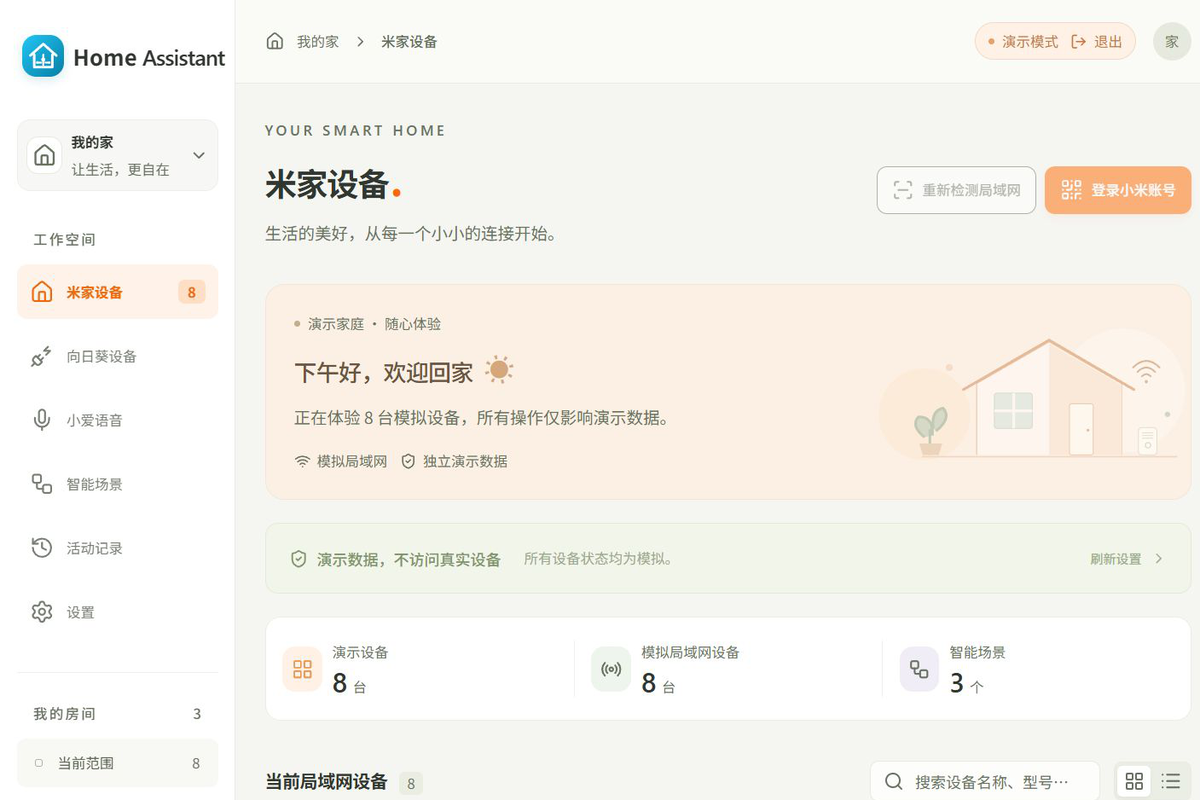
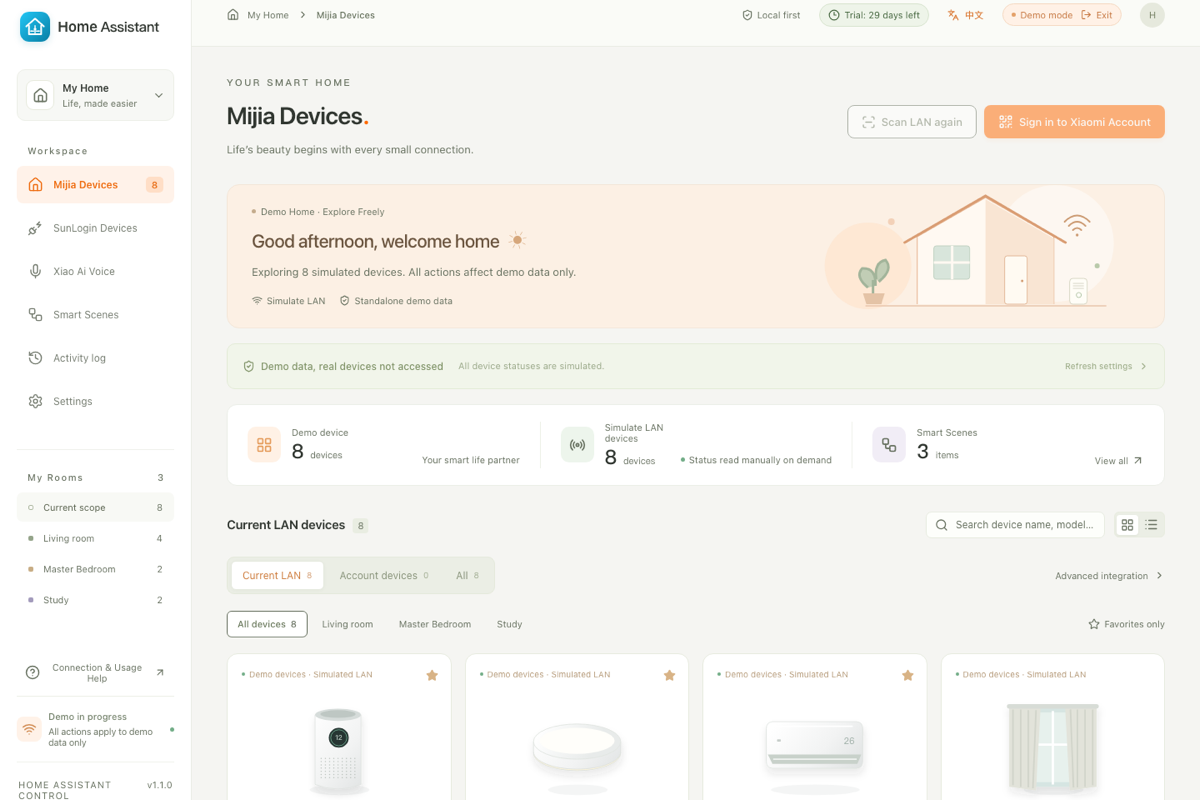
Publish Home Assistant Control 1.1.0 trial release notes

diff --git a/README.md b/README.md
@@ -11,32 +11,33 @@
 [![Release](https://img.shields.io/badge/release-latest-blue)](https://github.com/yuan-xin-9997/HomeAssistantControl/releases/latest)
 [![Platform](https://img.shields.io/badge/platform-Windows%2010%2F11%20%7C%20macOS%2013%2B-lightgrey)](#download--installation)
 [![Download](https://img.shields.io/badge/download-installer-0078D4)](https://github.com/yuan-xin-9997/HomeAssistantControl/releases/latest/download/HomeAssistantControl-Setup.exe)
-[![Buy](https://img.shields.io/badge/buy-license-16a34a)](https://hacontrol.yuan-xin.top/)
+[![Free trial](https://img.shields.io/badge/free%20trial-30%20days-16a34a)](https://hacontrol.yuan-xin.top/download)
 
 English | [简体中文](README.cn.md) | [Changelog](CHANGELOG.md)
 
-**[Download](#download--installation) · [Features](#features) · [Activation](#activation--purchase) · [Compatibility](#compatibility) · [FAQ](#faq) · [Support](#support)**
+**[Download](#download--installation) · [Features](#features) · [Free trial](#free-trial) · [Activation](#activation--purchase) · [Compatibility](#compatibility) · [FAQ](#faq) · [Support](#support)**
 
 </div>
 
 > **About this repository**
 >
-> This is the official release and documentation repository for Home Assistant Control. The source code is maintained in a private repository. Download the installer from [Releases](https://github.com/yuan-xin-9997/HomeAssistantControl/releases/latest) or buy a license from the [store](https://hacontrol.yuan-xin.top/).
+> This is the official release and documentation repository for Home Assistant Control. The source code is maintained in a private repository. Download the installer from [Releases](https://github.com/yuan-xin-9997/HomeAssistantControl/releases/latest); every download includes a **30-day free trial**. No email, account or credit card is needed to start it.
 
 ## Overview
 
 Home Assistant Control runs a small control center on an always-on computer in your home. It signs in to your Xiaomi account to import compatible Mijia devices, talks to them over the local network with real miIO/MIoT commands, and can also scan and control SunLogin smart plugs. Other computers connect to the center with a pairing code, so you can use the same devices and scenes from Windows, macOS or a browser.
 
+- **30-day free trial with every feature.** Only days on which you actually open the app count; days you skip are not consumed.
+- Trial state is kept on the store's server and bound to your machine code, so changing the system clock, reinstalling or clearing app data does not reset it. The remaining days are shown in the launcher and the license panel.
 - No port forwarding, no cloud relay and no subscription.
 - Device credentials are encrypted at rest with AES-GCM.
-- Activation is a machine-bound offline code. Normal use does not contact a licensing server.
-- The installer is free. Real-device control requires a paid license.
+- After the trial, activation is a machine-bound offline code. Normal use does not contact a licensing server.
 
 ## Screenshots
 
 <div align="center">
 <img src="screenshots/app-en.png" alt="Home Assistant Control dashboard" width="860" />
-<p><em>The Windows/macOS app currently uses a Simplified Chinese interface; the layout is the same on every client.</em></p>
+<p><em>The app supports English and Simplified Chinese; this screenshot uses demo data.</em></p>
 </div>
 
 ## Features
@@ -51,6 +52,15 @@ Home Assistant Control runs a small control center on an always-on computer in y
 | Local-first privacy | No telemetry and no cloud relay. Local control keeps working when the internet is down. |
 | Demo mode | Explore the interface with sample data, without a license and without touching real devices. |
 
+## What's new in 1.1.0
+
+- **30-day free trial** with every feature, counted only by the days you actually open the app.
+- Remaining trial days are visible in the launcher, the top bar and the License panel.
+- Trial state is server-backed and machine-bound: reinstalling, clearing app data or changing the system clock does not reset it.
+- Offline trial use is supported; queued open days sync when the store is reachable again.
+- Optional uninstall feedback on Windows (skippable and non-blocking).
+- Recovery by checkout email + machine code, without the order number.
+
 ## Download & Installation
 
 | Download | Description |
@@ -58,29 +68,38 @@ Home Assistant Control runs a small control center on an always-on computer in y
 | **[HomeAssistantControl-Setup.exe](https://github.com/yuan-xin-9997/HomeAssistantControl/releases/latest/download/HomeAssistantControl-Setup.exe)** | Recommended: Windows 10/11 installer. |
 | [All releases](https://github.com/yuan-xin-9997/HomeAssistantControl/releases) | Version history, release notes and earlier installers. |
 | [SHA256SUMS.txt](https://github.com/yuan-xin-9997/HomeAssistantControl/releases/latest/download/SHA256SUMS.txt) | SHA-256 checksum for the latest installer. |
-| **[Buy a license](https://hacontrol.yuan-xin.top/)** | Purchase a machine-bound activation code. |
+| **[Start the free trial](https://hacontrol.yuan-xin.top/download)** | Download the full app and use every feature for 30 days. |
 
 **Requirements:** Windows 10/11 (64-bit) or macOS 13+. The web dashboard is served by the same app. The center and devices must be on the same IPv4 subnet. UDP 54321 is used for miIO; TCP 6767/5767 for local SunLogin plugs.
 
 > The current GitHub release contains the Windows installer. The macOS build is produced on macOS and requires developer signing/notarization before public distribution; contact support if you need the macOS build.
 
 1. Download and run the installer.
-2. Start the app. The activation screen shows your machine code.
-3. Buy a license and paste the machine code on the store confirmation page.
-4. Paste the returned `HAC-...` code into the app and click **Activate**.
-5. Choose **Run as control center**, select the home network interface, and start it.
-6. Sign in to your Xiaomi account and import devices.
+2. Start the app. The 30-day trial starts automatically; the launcher shows the remaining days and your machine code.
+3. Choose **Run as control center**, select the home network interface, and start it.
+4. Sign in to your Xiaomi account and import devices.
+5. If you want to keep controlling real devices after the trial, buy a license, paste the machine code on the store confirmation page and activate the returned `HAC-...` code.
+
+## Free trial
+
+- Every installer includes the full app. The first launch starts a **30-day free trial**; no email, account or credit card is required.
+- A day is consumed only when you open the app. If you do not open it, nothing is consumed.
+- The count is stored on the store's server and bound to the machine code shown in the app. Changing the system clock, reinstalling, or clearing local app data does not reset it.
+- The launcher and the **License & purchase** panel always show the remaining days.
+- The first trial check needs internet access. After that the app works offline; offline open days are queued and reported the next time the store is reachable.
+- After 30 open days you can keep using demo mode, or buy a license to keep controlling real devices.
 
 ## Activation & Purchase
 
-Home Assistant Control uses **offline activation**:
+After the free trial, Home Assistant Control uses **offline activation**:
 
-- On first launch, the activation screen shows a machine code such as `ABCD-EFGH-IJKL-MNOP`.
-- Buy a license from the [store](https://hacontrol.yuan-xin.top/) and submit the machine code.
+- The app shows a machine code such as `ABCD-EFGH-IJKL-MNOP`.
+- Buy a license from the [store](https://hacontrol.yuan-xin.top/purchase) and submit the machine code.
 - The store returns an `HAC-...` activation code bound to that machine.
 - Paste it into the app. Verification uses an embedded P-256 public key; no license server is contacted.
 - Each order covers **2 computers**. Reusing the same machine code returns the same code without consuming another slot.
-- Price: **$9.99 USD**, one-time, including 1 year of updates.
+- One-time purchase, including 1 year of updates. The current price is shown on the store's purchase page and at checkout.
+- Lost the code or the receipt? Use [Find my license](https://hacontrol.yuan-xin.top/retrieve) with your checkout email and the machine code; no order number or email delivery is required for a machine that already has a code.
 
 > Already-issued offline codes cannot be revoked remotely. Refunds and disputes stop future reissues and machine changes. See the [refund policy](https://hacontrol.yuan-xin.top/refund).
 
@@ -112,9 +131,9 @@ Local control does not. Signing in to Xiaomi, importing devices, syncing model s
 
 Each order can issue codes for 2 different machines. Open the app on each computer and claim a separate code with that machine's code.
 
-### Is there a free version?
+### Is there a free trial?
 
-The installer is free and a demo mode is included, but controlling real devices requires a one-time license.
+Yes. Every download includes all features for 30 days. Only days on which you open the app count, and the remaining days are shown in the app. The trial is bound to the machine code and stored on our server, so reinstalling does not reset it. After the trial, real-device control needs a one-time license; demo mode stays free.
 
 ### What happens after the 1-year update period?
 
@@ -122,11 +141,11 @@ The app keeps working at the last version you own. New updates may require a cur
 
 ### Where is my data stored?
 
-Device credentials, scenes and settings stay in the app's local data directory. Credentials are encrypted with AES-GCM. The app has no telemetry. The store only receives the machine code you submit and a hash of it.
+Device credentials, scenes and settings stay in the app's local data directory. Credentials are encrypted with AES-GCM. The app has no telemetry. During the trial the store receives the machine code, the local dates on which you opened the app, the app version and platform. The store also receives the machine code you submit when claiming a license.
 
 ### How do I uninstall it?
 
-Use Windows Settings → Apps or drag the macOS app to the Trash. The local data directory is kept so a reinstall can reuse your devices. Remove it manually if you want a clean uninstall.
+Use Windows Settings → Apps, or drag the macOS app to the Trash. On Windows the uninstaller opens an optional 10-second feedback page in your browser; it can be closed immediately and never blocks the uninstall. The local data directory is kept so a reinstall can reuse your devices. Remove it manually if you want a clean uninstall.
 
 ## Privacy
 

diff --git a/README.cn.md b/README.cn.md
@@ -11,31 +11,32 @@
 [![Release](https://img.shields.io/badge/release-latest-blue)](https://github.com/yuan-xin-9997/HomeAssistantControl/releases/latest)
 [![平台](https://img.shields.io/badge/platform-Windows%2010%2F11%20%7C%20macOS%2013%2B-lightgrey)](#下载安装)
 [![下载](https://img.shields.io/badge/download-安装包-0078D4)](https://github.com/yuan-xin-9997/HomeAssistantControl/releases/latest/download/HomeAssistantControl-Setup.exe)
-[![购买](https://img.shields.io/badge/buy-购买授权-16a34a)](https://hacontrol.yuan-xin.top/)
+[![免费试用](https://img.shields.io/badge/free%20trial-免费试用%2030%20天-16a34a)](https://hacontrol.yuan-xin.top/download)
 
 [English](README.md) | 简体中文 | [更新日志](CHANGELOG.md)
 
-**[下载](#下载安装) · [功能](#功能) · [激活与购买](#激活与购买) · [兼容性](#兼容性) · [常见问题](#常见问题) · [支持](#支持)**
+**[下载](#下载安装) · [功能](#功能) · [免费试用](#免费试用) · [激活与购买](#激活与购买) · [兼容性](#兼容性) · [常见问题](#常见问题) · [支持](#支持)**
 
 </div>
 
 > **关于本仓库**
 >
-> 这是 Home Assistant Control 的官方发布与文档仓库。源代码维护在私有仓库。请从 [Releases](https://github.com/yuan-xin-9997/HomeAssistantControl/releases/latest) 下载安装包，或在[商店](https://hacontrol.yuan-xin.top/)购买授权。
+> 这是 Home Assistant Control 的官方发布与文档仓库。源代码维护在私有仓库。请从 [Releases](https://github.com/yuan-xin-9997/HomeAssistantControl/releases/latest) 下载安装包；每个安装包都包含 **30 天免费试用**，开始试用不需要邮箱、账号或信用卡。
 
 ## 项目简介
 
 Home Assistant Control 在一台常开的家用电脑上运行小型控制中心。它登录小米账号导入兼容的米家设备，通过局域网发送真实 miIO/MIoT 指令，也可以扫描和控制向日葵插座。其他电脑使用配对码连接控制中心，在 Windows、macOS 或浏览器里共享同一套设备与场景。
 
+- **全部功能免费试用 30 天**，只统计实际打开软件的天数，没打开的日子不消耗。
+- 试用记录保存在服务端并绑定机器码，改系统时间、卸载重装或清除本地数据都不会重置；剩余天数在启动器和授权面板可见。
 - 不需要端口映射、云端中转或订阅。
 - 设备凭据使用 AES-GCM 加密落盘。
-- 激活码绑定机器，日常使用不会连接授权服务器。
-- 安装包免费，控制真实设备需要购买授权。
+- 试用结束后，激活码绑定机器，日常使用不会连接授权服务器。
 
 ## 界面预览
 
 <div align="center">
-<img src="screenshots/app-zh.png" alt="Home Assistant Control 控制面板" width="860" />
+<img src="screenshots/app-zh.png" alt="Home Assistant Control 控制面板（演示数据）" width="860" />
 </div>
 
 ## 功能
@@ -50,6 +51,15 @@ Home Assistant Control 在一台常开的家用电脑上运行小型控制中心
 | 本地优先隐私 | 没有遥测、没有云端中转；断网时局域网控制仍然可用。 |
 | 演示模式 | 用示例数据体验界面，不需要授权，也不会控制真实设备。 |
 
+## 1.1.0 新变化
+
+- **30 天免费试用**，包含全部功能，只按实际打开软件的天数计算。
+- 启动器、顶部栏和授权面板都会显示剩余试用天数。
+- 试用状态由服务端保存并绑定机器码：卸载重装、清除本地数据或修改系统时间都不会重置。
+- 支持离线试用；离线打开的天数会在联网后补报。
+- Windows 卸载时提供可跳过、不阻塞的卸载调研。
+- 支持用下单邮箱 + 机器码找回激活码，不再强制订单号。
+
 ## 下载安装
 
 | 下载 | 说明 |
@@ -57,29 +67,38 @@ Home Assistant Control 在一台常开的家用电脑上运行小型控制中心
 | **[HomeAssistantControl-Setup.exe](https://github.com/yuan-xin-9997/HomeAssistantControl/releases/latest/download/HomeAssistantControl-Setup.exe)** | 推荐：Windows 10/11 安装包。 |
 | [全部版本](https://github.com/yuan-xin-9997/HomeAssistantControl/releases) | 版本历史、更新说明和旧安装包。 |
 | [SHA256SUMS.txt](https://github.com/yuan-xin-9997/HomeAssistantControl/releases/latest/download/SHA256SUMS.txt) | 最新安装包的 SHA-256 校验值。 |
-| **[购买授权](https://hacontrol.yuan-xin.top/)** | 购买绑定机器的激活码。 |
+| **[免费试用](https://hacontrol.yuan-xin.top/download)** | 下载完整软件，30 天内使用全部功能。 |
 
 **系统要求：** Windows 10/11（64 位）或 macOS 13+。网页面板由同一个程序提供。控制中心与设备必须在同一 IPv4 子网。miIO 使用 UDP 54321；向日葵本地插座使用 TCP 6767/5767。
 
 > 当前 GitHub Release 提供 Windows 安装包。macOS 安装包需要在 macOS 上构建并完成开发者签名/公证后再公开分发；需要 macOS 版本请联系支持。
 
 1. 下载并运行安装包。
-2. 启动程序，激活界面会显示本机机器码。
-3. 在商店购买授权，并在确认页输入机器码。
-4. 把返回的 `HAC-...` 激活码粘贴回程序，点击“激活”。
-5. 选择“作为控制中心”，选择家庭网卡并启动。
-6. 登录小米账号并导入设备。
+2. 启动程序，30 天免费试用自动开始；启动器会显示剩余天数和本机机器码。
+3. 选择“作为控制中心”，选择家庭网卡并启动。
+4. 登录小米账号并导入设备。
+5. 试用结束后如果想继续控制真实设备，再在商店购买授权，用机器码领取 `HAC-...` 激活码并点击“激活”。
+
+## 免费试用
+
+- 每个安装包都包含完整软件，首次启动自动开始 **30 天免费试用**，不需要邮箱、账号或信用卡。
+- 只有当天打开软件才消耗一天；没打开软件的日子不消耗。
+- 试用记录保存在服务端并绑定软件中显示的机器码。改系统时间、卸载重装或清除本地数据都不会重置。
+- 启动器和“授权与购买”面板会一直显示剩余天数。
+- 首次确认试用需要联网；之后可以离线使用，离线打开的天数会在下次联网时补报。
+- 30 个打开日后，可以继续免费使用演示模式，或购买授权继续控制真实设备。
 
 ## 激活与购买
 
-Home Assistant Control 使用**离线激活**：
+试用结束后，Home Assistant Control 使用**离线激活**：
 
-- 首次启动时，激活界面显示类似 `ABCD-EFGH-IJKL-MNOP` 的机器码。
-- 在[商店](https://hacontrol.yuan-xin.top/)购买授权并提交机器码。
+- 软件会显示类似 `ABCD-EFGH-IJKL-MNOP` 的机器码。
+- 在[商店购买页](https://hacontrol.yuan-xin.top/purchase)购买授权并提交机器码。
 - 商店返回绑定该机器的 `HAC-...` 激活码。
 - 把激活码粘贴回程序。程序使用内置 P-256 公钥在本地验签，不连接授权服务器。
 - 每份订单可激活 **2 台电脑**；重复提交同一机器码返回同一激活码，不重复占名额。
-- 价格：**$9.99 USD**，一次买断，含 1 年更新。
+- 一次买断，含 1 年更新。当前价格只在商店购买页和结账页显示。
+- 激活码或邮件丢了？用[找回授权](https://hacontrol.yuan-xin.top/retrieve)输入下单邮箱和软件中的机器码即可找回；已经签发过激活码的机器不需要订单号和邮件。
 
 > 已经签发的离线激活码无法远程失效。退款或争议会阻止该订单后续补发和换机。详见[退款政策](https://hacontrol.yuan-xin.top/refund)。
 
@@ -111,9 +130,9 @@ Home Assistant Control 使用**离线激活**：
 
 每个订单最多为 2 台不同电脑签发激活码。在每台电脑上打开程序，用该机器的机器码分别领取。
 
-### 有免费版吗？
+### 有免费试用吗？
 
-安装包免费，并提供演示模式；控制真实设备需要一次性授权。
+有。每个安装包都包含全部功能，可免费试用 30 天；只统计实际打开软件的天数，剩余天数在软件内显示。试用绑定机器码并保存在服务端，卸载重装不会重置。试用结束后，控制真实设备需要一次性授权；演示模式仍然免费。
 
 ### 1 年更新期结束后还能用吗？
 
@@ -121,11 +140,11 @@ Home Assistant Control 使用**离线激活**：
 
 ### 我的数据存在哪里？
 
-设备凭据、场景和设置保存在程序自己的本地数据目录；凭据使用 AES-GCM 加密。程序没有遥测。商店只接收你提交的机器码及其哈希。
+设备凭据、场景和设置保存在程序自己的本地数据目录；凭据使用 AES-GCM 加密。程序没有遥测。试用期间，商店会接收机器码、实际打开软件的本地日期、程序版本和平台；领取激活码时还会接收你提交的机器码及其哈希。
 
 ### 如何卸载？
 
-Windows 在“设置 → 应用”中卸载；macOS 把应用拖到废纸篓。本地数据目录会保留，以便重装后继续使用；如需彻底清理可手动删除。
+Windows 在“设置 → 应用”中卸载；卸载器会在浏览器中打开一个可选的 10 秒卸载调研页面，直接关闭即可跳过，且不会阻塞卸载。macOS 把应用拖到废纸篓，或在菜单中打开卸载反馈。本地数据目录会保留，以便重装后继续使用；如需彻底清理可手动删除。
 
 ## 隐私
 

diff --git a/RELEASE_NOTES.md b/RELEASE_NOTES.md
@@ -1,31 +1,27 @@
-# Home Assistant Control 1.0.0
-
-First paid release.
+# Home Assistant Control 1.1.0
 
 ## Highlights
 
-- Local-first control center for compatible Mijia devices and SunLogin smart plugs
-- Windows and macOS clients, plus a browser dashboard
-- Mijia QR/password login and device import
-- Local miIO/MIoT control generated from each model's specification
-- SunLogin C1/C2/P1 local plugs and C2-BLE-V3 cloud plugs
-- Multi-step scenes and activity history
-- Multi-client center with pairing code
-- Offline machine-bound activation, 2 computers per license, 1 year of updates
-- Demo mode with sample data
-- SEO-ready store, guide and compatibility pages
+- **30-day free trial with every feature.** No email, account or credit card is required. The trial counts only the days on which you actually open the app.
+- The launcher, the top bar and the License panel show the remaining trial days.
+- Trial state is stored on the store's server and bound to the machine code shown in the app, so changing the system clock, reinstalling or clearing app data does not reset it.
+- Offline-first: the first trial check needs internet access; after that the app can be used offline and queued open days are reported the next time the store is reachable.
+- After the trial, a one-time machine-bound offline `HAC-` activation code keeps real-device control enabled. Price is shown on the store's purchase page and at checkout.
+- Optional uninstall feedback on Windows: the uninstaller opens a short survey page and continues immediately. Close the page to skip; nothing is sent unless you submit it.
+- License recovery now works with the checkout email plus the machine code, even without the order number or the original email.
+- New English and Chinese screenshots and trial-first storefront copy.
 
 ## Install
 
-1. Download `HomeAssistantControl-Setup.exe`.
-2. Run the installer. Windows may show a SmartScreen warning because the build is not code-signed.
-3. Start the app. Copy the machine code from the activation screen.
-4. Buy a license at <https://hacontrol.yuan-xin.top/> and submit the machine code.
-5. Paste the `HAC-...` activation code into the app and click **Activate**.
+1. Download `HomeAssistantControl-Setup.exe` and run it. Windows may show a SmartScreen warning because the build is not code-signed.
+2. Start the app. The 30-day trial starts automatically and the launcher shows the remaining days.
+3. Choose **Run as control center**, select the home network interface and start it.
+4. Sign in to your Xiaomi account and import devices.
+5. If you want to keep controlling real devices after the trial, buy a license in the store, submit the machine code and activate the returned `HAC-...` code.
 
 ## Notes
 
-- Real-device control requires a paid license. The installer and demo mode are free.
 - Local control works without internet; Xiaomi login/import and SunLogin cloud plugs need internet.
+- Compatibility depends on the device model, firmware and the local protocols it exposes.
 - The app is an independent product, not affiliated with Xiaomi, Mijia, SunLogin/Oray or the Home Assistant project.
-- macOS distribution requires developer signing; this release contains the Windows installer.
+- The current release contains the Windows installer. The macOS build requires developer signing and notarization; contact support if you need it.

diff --git a/CHANGELOG.md b/CHANGELOG.md
@@ -1,5 +1,16 @@
 # Changelog
 
+## 1.1.0 — 2026-11-20
+
+- 30-day free trial with every feature, counted by the days the app is actually opened.
+- Trial state is server-authoritative and machine-bound; reinstalling, clearing local data or changing the clock does not reset it.
+- Remaining trial days are shown in the launcher, the top bar and the License panel.
+- Offline trial support: days opened offline are queued and reported when the store is reachable again.
+- Optional uninstall feedback on Windows (browser page, skippable, never blocks the uninstall).
+- Self-service license recovery with checkout email + machine code, without needing the order number.
+- Trial-first storefront and documentation; price now appears only on the purchase/checkout pages.
+- New English and Chinese screenshots.
+
 ## 1.0.0 — 2026-11-10
 
 First paid release.
